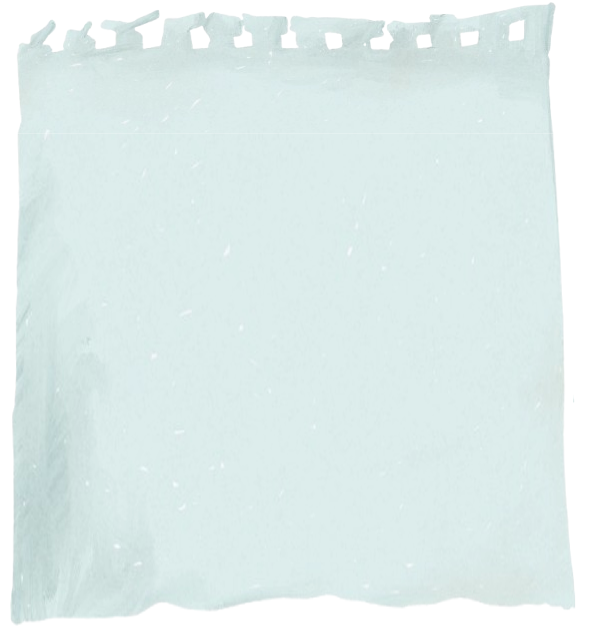
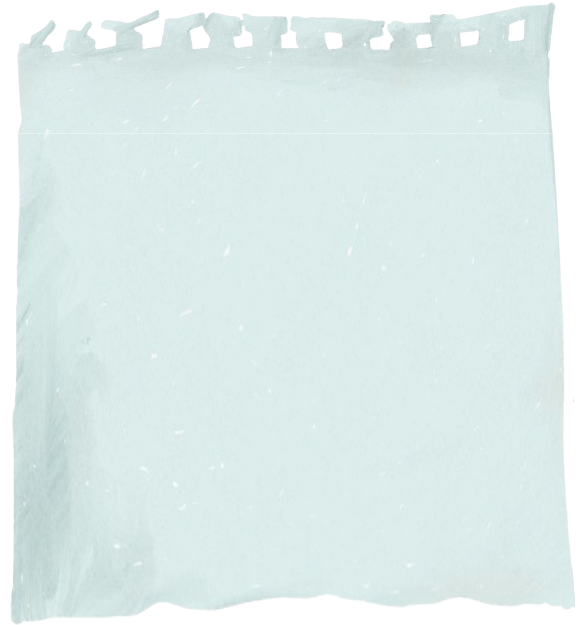
design: 배경 이미지 상세 조정

diff --git a/fillit_frontend/src/utils/getBackgroundImage.ts b/fillit_frontend/src/utils/getBackgroundImage.ts
@@ -3,6 +3,7 @@ import ArticleWithImage2 from '@/assets/images/article-bg-img-2.png';
 import ArticleWithImage3 from '@/assets/images/article-bg-img-3.png';
 import ArticleWithImage4 from '@/assets/images/article-bg-img-4.png';
 import ArticleWithImage5 from '@/assets/images/article-bg-img-5.png';
+import ArticleWithImage6 from '@/assets/images/article-bg-img-6.png';
 import ArticleWithoutImage1 from '@/assets/images/article-bg-noimg-1.png';
 import ArticleWithoutImage2 from '@/assets/images/article-bg-noimg-2.png';
 import ArticleWithoutImage3 from '@/assets/images/article-bg-noimg-3.png';
@@ -19,6 +20,7 @@ export const getBackgroundImage = (
     ArticleWithImage3,
     ArticleWithImage4,
     ArticleWithImage5,
+    ArticleWithImage6,
   ];
   const ArticleWithoutImageList: string[] = [
     ArticleWithoutImage1,
@@ -29,6 +31,6 @@ export const getBackgroundImage = (
   ];
 
   return hasImage
-    ? ArticleWithImageList[boardId % 5]
+    ? ArticleWithImageList[boardId % 6]
     : ArticleWithoutImageList[boardId % 5];
 };

diff --git a/fillit_frontend/src/components/Comment/CommentCard.tsx b/fillit_frontend/src/components/Comment/CommentCard.tsx
@@ -36,7 +36,7 @@ const CommentCard = ({
           : 'w-[19rem] min-h-[12.5rem]'
       } flex items-center -mt-10 ${
         position === 'left' ? '-translate-x-7' : 'translate-x-5'
-      }`}
+      } drop-shadow-[0px_0px_1px_rgba(0,0,0,0.1)]`}
       style={{
         backgroundImage: `url(${CommentImage})`,
       }}
